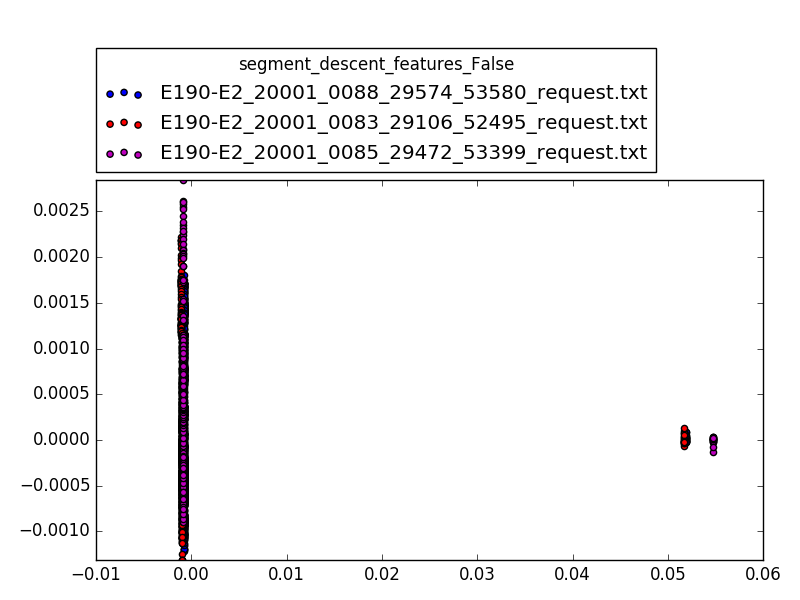
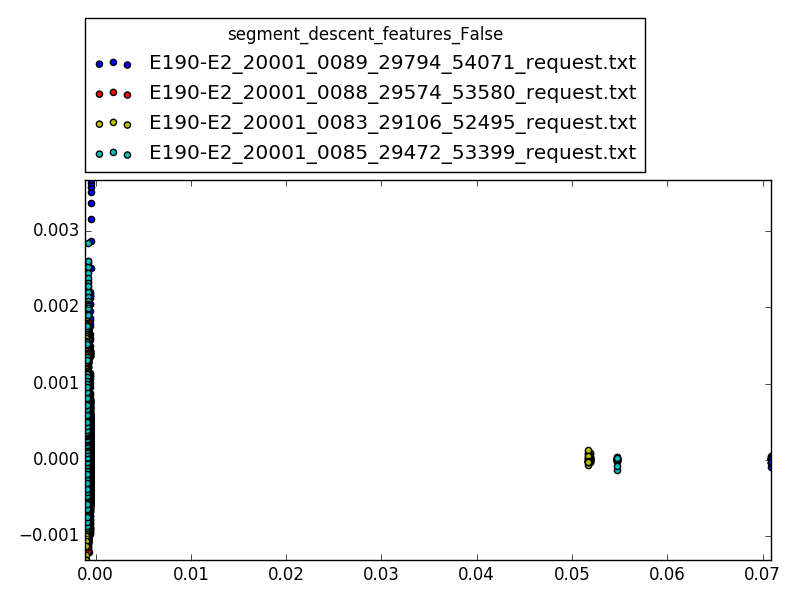
update images

diff --git a/algorithms/n_flights_segements.py b/algorithms/n_flights_segements.py
@@ -135,7 +135,7 @@ def init(cas):
 
 
 if __name__ == "__main__":
-    usefeature, features, cols, ravelfeatures = init(1)
+    usefeature, features, cols, ravelfeatures = init(2)
     all_computed_data = {}
     signals_data = []
     dir_path = "../data/"
